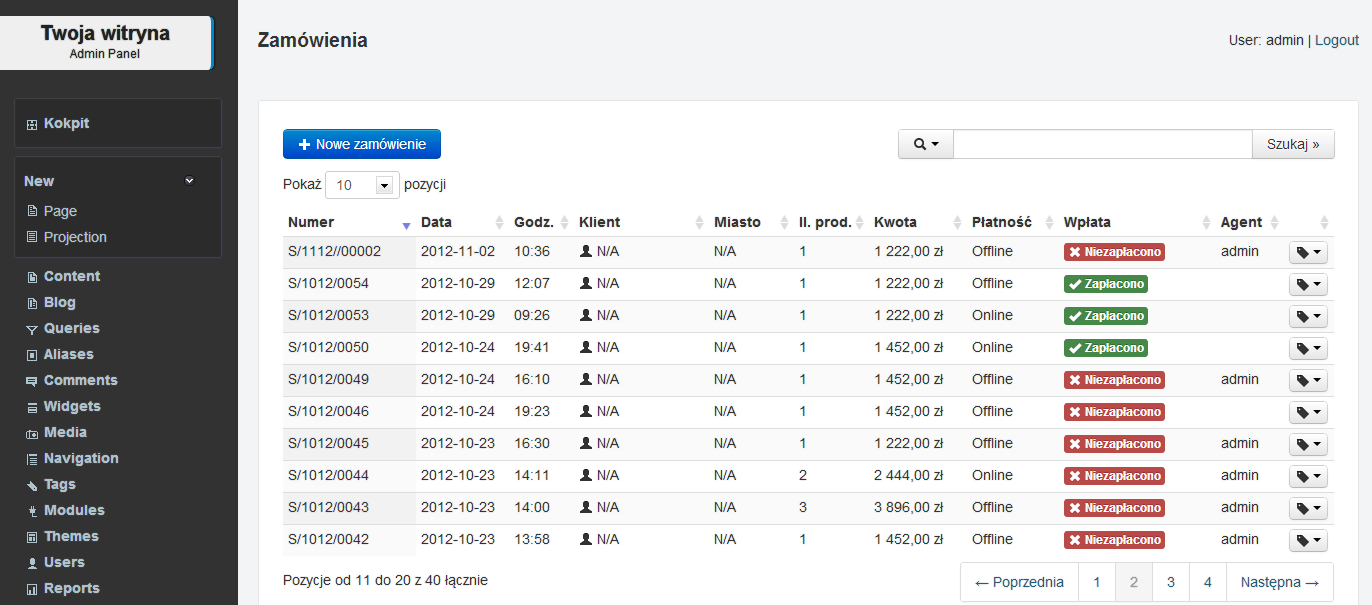
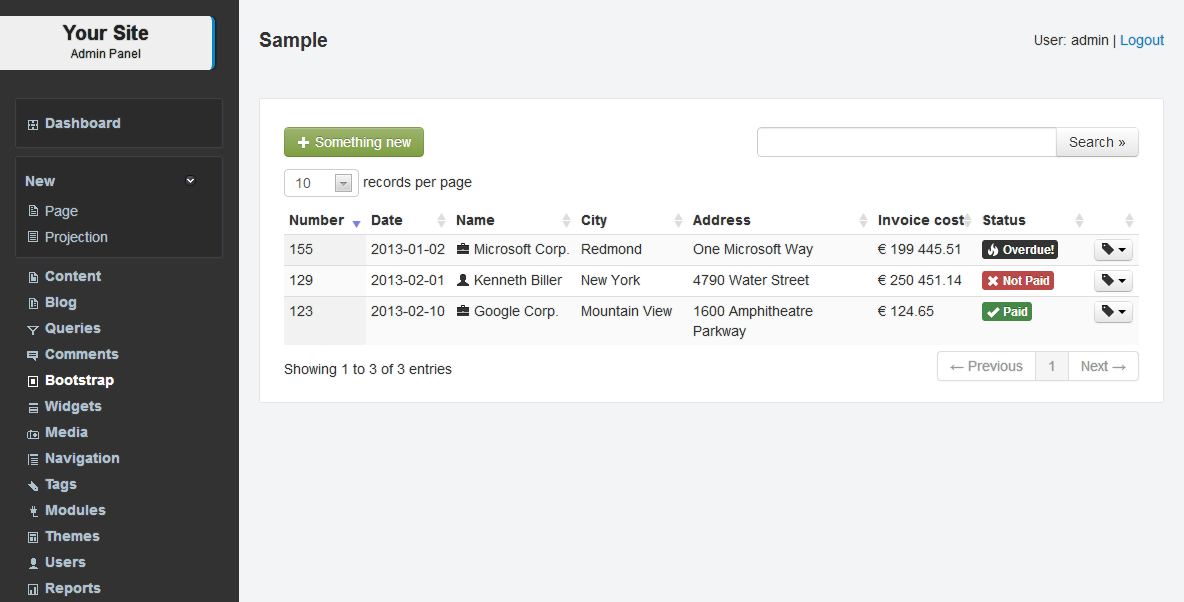
fixed TB version no
updated readme
new theme screenshot

diff --git a/README.md b/README.md
@@ -4,6 +4,8 @@ Orchard Bootstrap Admin Theme
 Extended admin theme for [Orchard framework](http://www.orchardproject.net/) which fully integrates the admin panel with [Twitter Bootstrap](http://twitter.github.com/bootstrap/index.html), [jquery DataTables](http://datatables.net/), [jquery validationEngine](https://github.com/posabsolute/jQuery-Validation-Engine), etc.
 Great for custom development in Orchard framework in admin panel.
 
+I've created also a module presenting sample of what you can achieve with this theme. You can obtain it here: [Bootstrap Orchard Admin Sample](https://github.com/yhnavein/orchard-bootstrap-admin-sample) and from the Orchard Gallery in the nearest future.
+
 Released under the [MIT License](http://opensource.org/licenses/mit-license.php)
 
 ## Screenshots
@@ -14,7 +16,7 @@ Released under the [MIT License](http://opensource.org/licenses/mit-license.php)
 
 This theme contains following libraries, packages:
 
-* **[Twitter Bootstrap](http://twitter.github.com/bootstrap/index.html)** v. 2.2.2 *(both styles, scripts and sprites)*
+* **[Twitter Bootstrap](http://twitter.github.com/bootstrap/index.html)** v. 2.3 *(both styles, scripts and sprites)*
 * **[jquery DataTables](http://datatables.net/)** v. 1.9.4 *with package to integrate Bootstrap styles into dataTables*
 * **[Date.js](http://www.datejs.com/)** v. 1.0 Alpha-1
 * **[jquery validationEngine](https://github.com/posabsolute/jQuery-Validation-Engine)** v. 2.6.1
